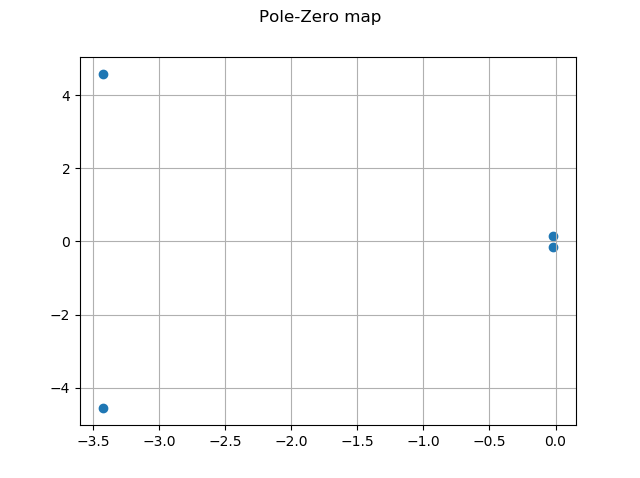
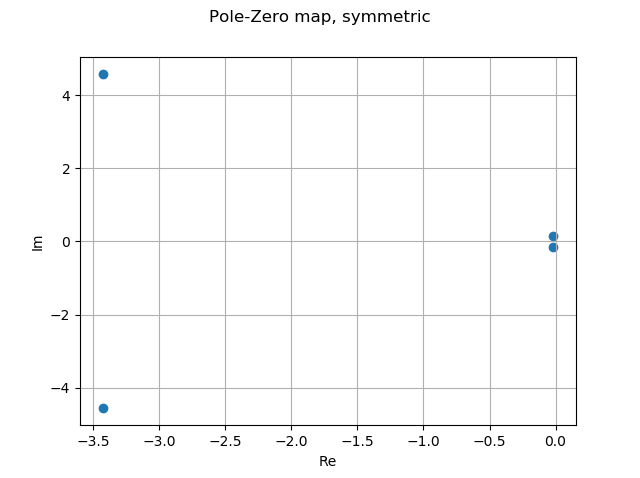
added cit_par_orig

Changed region(s): [[0.3125, 0.0, 0.6875, 0.0586], [0.5, 0.9372, 0.5312, 0.9958], [0.0312, 0.4979, 0.0625, 0.5272]]

diff --git a/Cit_par_orig.py b/Cit_par_orig.py
@@ -1,0 +1,111 @@
+from math import cos, sin, pi
+# Citation 550 - Linear simulation
+
+# xcg = 0.25 * c
+
+# Stationary flight condition
+
+hp0    =1500       	      # pressure altitude in the stationary flight condition [m]
+V0     =150             # true airspeed in the stationary flight condition [m/sec]
+alpha0 =0             # angle of attack in the stationary flight condition [rad]
+th0    =0             # pitch angle in the stationary flight condition [rad]
+
+# Aircraft mass
+m      =9165 * 0.453592             # mass [kg]
+
+# aerodynamic properties
+e      = 0.8            # Oswald factor [ ]
+CD0    = 0.04            # Zero lift drag coefficient [ ]
+CLa    = 5.084            # Slope of CL-alpha curve [ ]
+
+# Longitudinal stability
+Cma    = -0.5626            # longitudinal stabilty [ ]
+Cmde   = -1.1642            # elevator effectiveness [ ]
+
+# Aircraft geometry
+
+S      = 30.00	          # wing area [m^2]
+Sh     = 0.2 * S         # stabiliser area [m^2]
+Sh_S   = Sh / S	          # [ ]
+lh     = 0.71 * 5.968    # tail length [m]
+c      = 2.0569	          # mean aerodynamic cord [m]
+lh_c   = lh / c	          # [ ]
+b      = 15.911	          # wing span [m]
+bh     = 5.791	          # stabilser span [m]
+A      = b ** 2 / S      # wing aspect ratio [ ]
+Ah     = bh ** 2 / Sh    # stabilser aspect ratio [ ]
+Vh_V   = 1	          # [ ]
+ih     = -2 * pi / 180   # stabiliser angle of incidence [rad]
+
+# Constant values concerning atmosphere and gravity
+
+rho0   = 1.2250          # air density at sea level [kg/m^3] 
+tempgrad = -0.0065         # temperature gradient in ISA [K/m]
+Temp0  = 288.15          # temperature at sea level in ISA [K]
+R      = 287.05          # specific gas constant [m^2/sec^2K]
+g      = 9.81            # [m/sec^2] (gravity constant)
+
+# air density [kg/m^3]  
+rho    = rho0 * pow(((1+(tempgrad * hp0 / Temp0))), (-((g / (tempgrad*R)) + 1)))   
+W      = m * g            # [N]       (aircraft weight)
+
+# Constant values concerning aircraft inertia
+
+muc    = m / (rho * S * c)
+mub    = m / (rho * S * b)
+KX2    = 0.019
+KZ2    = 0.042
+KXZ    = 0.002
+KY2    = 1.25 * 1.114
+
+# Aerodynamic constants
+
+Cmac   = 0                      # Moment coefficient about the aerodynamic centre [ ]
+CNwa   = CLa                    # Wing normal force slope [ ]
+CNha   = 2 * pi * Ah / (Ah + 2) # Stabiliser normal force slope [ ]
+depsda = 4 / (A + 2)            # Downwash gradient [ ]
+
+# Lift and drag coefficient
+
+CL = 2 * W / (rho * V0 ** 2 * S)              # Lift coefficient [ ]
+CD = CD0 + (CLa * alpha0) ** 2 / (pi * A * e) # Drag coefficient [ ]
+
+# Stabiblity derivatives
+
+CX0    = W * sin(th0) / (0.5 * rho * V0 ** 2 * S)
+CXu    = -0.02792
+CXa    = +0.47966		# Positive! (has been erroneously negative since 1993) 
+CXadot = +0.08330
+CXq    = -0.28170
+CXde   = -0.03728
+
+CZ0    = -W * cos(th0) / (0.5 * rho * V0 ** 2 * S)
+CZu    = -0.37616
+CZa    = -5.74340
+CZadot = -0.00350
+CZq    = -5.66290
+CZde   = -0.69612
+
+Cmu    = +0.06990
+Cmadot = +0.17800
+Cmq    = -8.79415
+
+CYb    = -0.7500
+CYbdot =  0     
+CYp    = -0.0304
+CYr    = +0.8495
+CYda   = -0.0400
+CYdr   = +0.2300
+
+Clb    = -0.10260
+Clp    = -0.71085
+Clr    = +0.23760
+Clda   = -0.23088
+Cldr   = +0.03440
+
+Cnb    =  +0.1348
+Cnbdot =   0     
+Cnp    =  -0.0602
+Cnr    =  -0.2061
+Cnda   =  -0.0120
+Cndr   =  -0.0939

diff --git a/MatrixCalculation.py b/MatrixCalculation.py
@@ -48,7 +48,7 @@ def GenSymmetricStateSys():
     A = -np.matmul(np.linalg.inv(C1),C2)
     B = -np.matmul(np.linalg.inv(C1),C3)
 
-    C = np.array([  [1, 0, 0, 0],
+    C = np.array([  [1/V0, 0, 0, 0],
                     [0, 1, 0, 0],
                     [0, 0, 1, 0],
                     [0, 0, 0, cbar/V]])
@@ -164,7 +164,9 @@ def CalcResponse(mode,inputparam):
     # Pole and zeroes map #
     plt.scatter(sys.pole().real, sys.pole().imag)
     #plt.scatter(sys.zero().real, sys.zero.imag)
-    plt.suptitle("Pole-Zero map")
+    plt.suptitle("Pole-Zero map, asymmetric")
+    plt.xlabel("Re")
+    plt.ylabel("Im")
     plt.grid()
     syspoles = sys.damp()
     print("------------------")
@@ -238,4 +240,4 @@ def CalcResponse(mode,inputparam):
     plt.show()
     return True
 
-#CalcResponse(0,1)
+CalcResponse(0,1)
